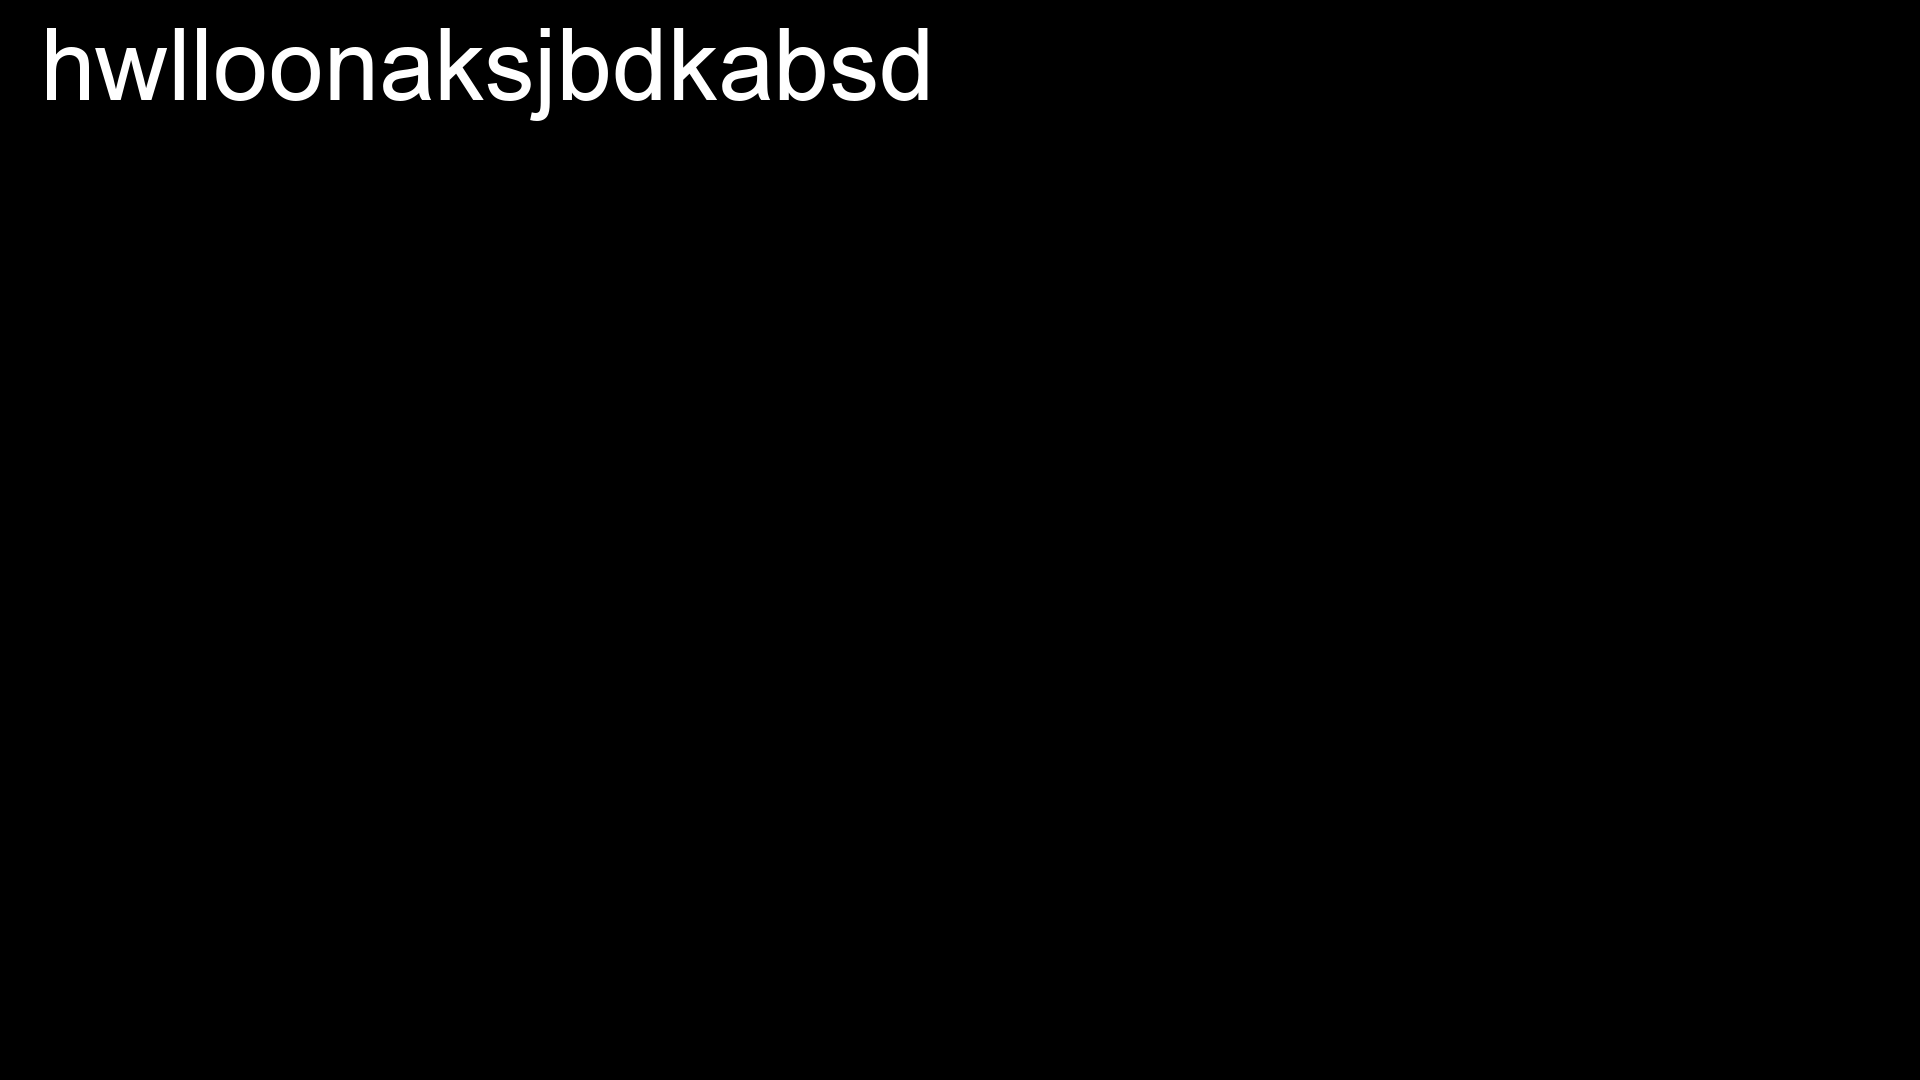
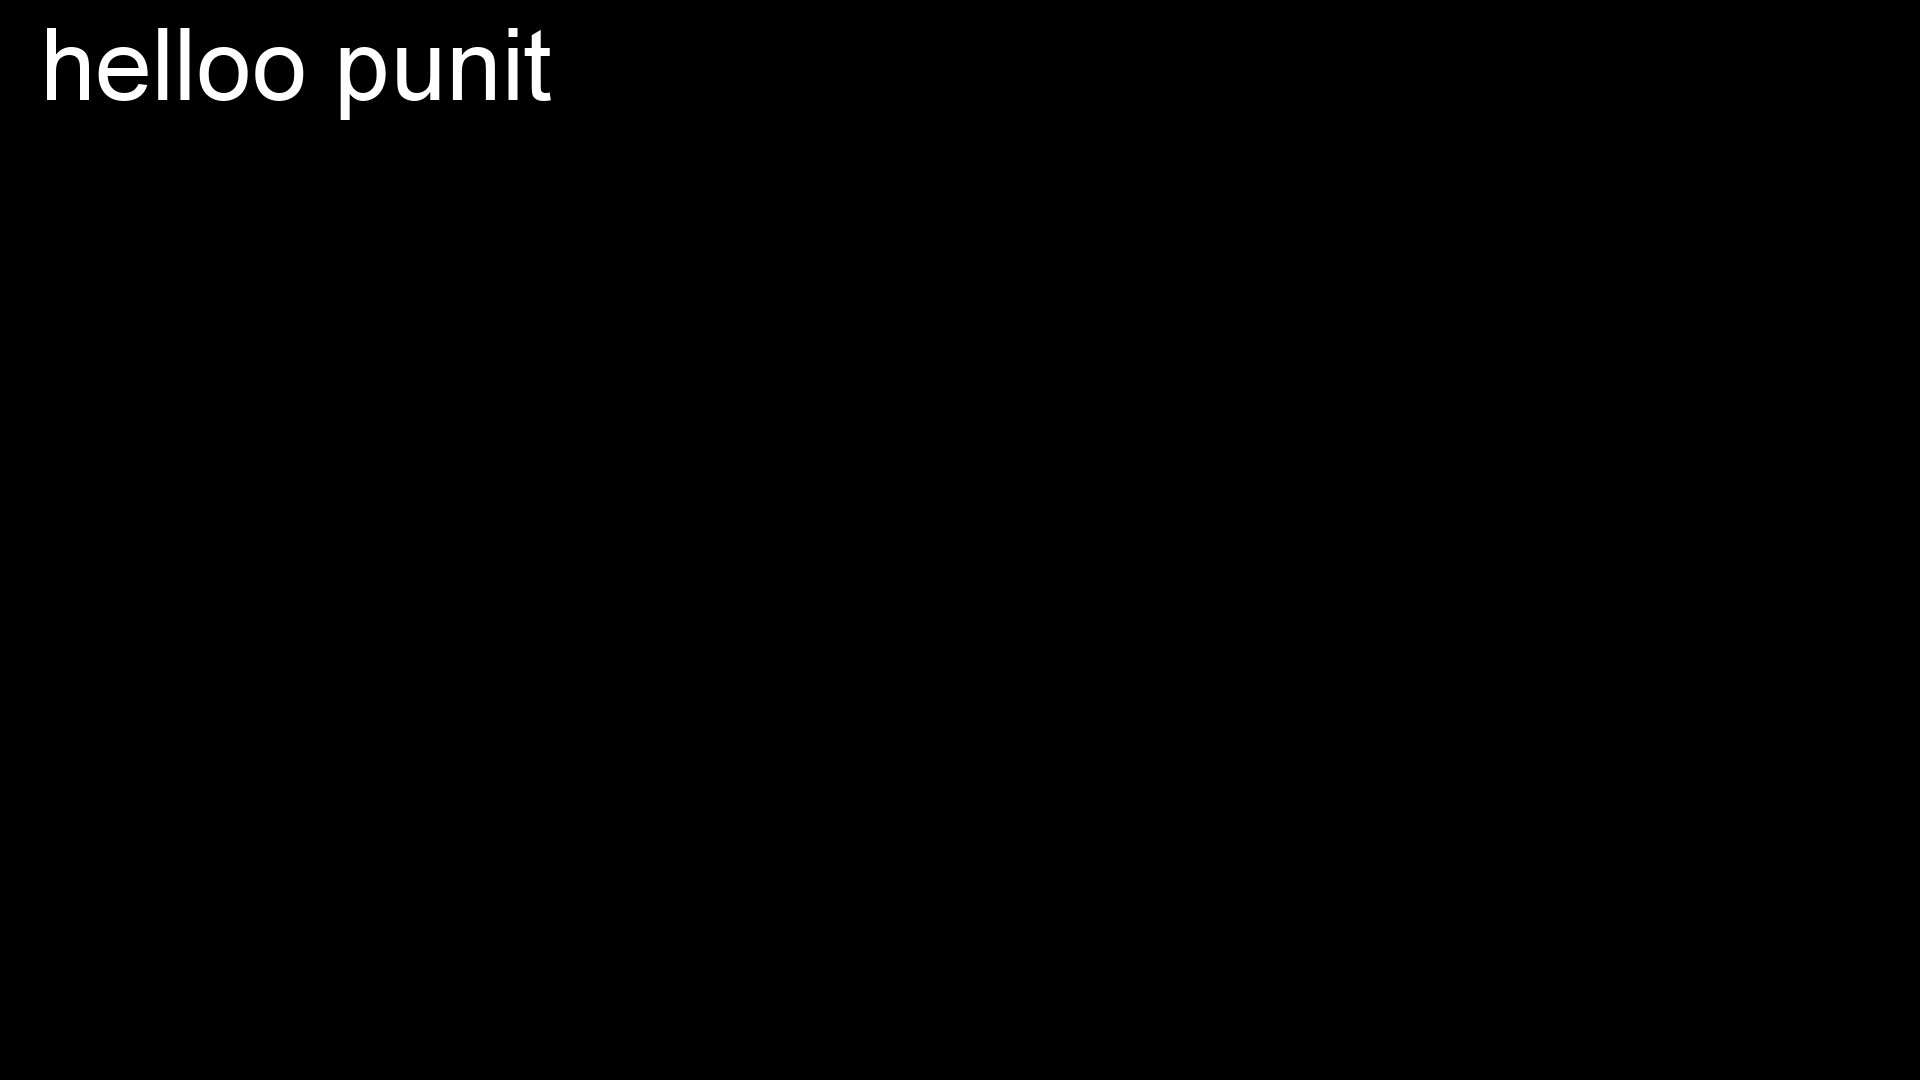
update the api

Changed region(s): [[0.0312, 0.0306, 0.5, 0.1222]]

diff --git a/src/App.vue b/src/App.vue
@@ -1,8 +1,8 @@
 <template>
 <div class="flex justify-center items-center h-screen">
-  <div class="border-4 w-[80vw] h-[60vh] md:h-[70vh] md:w-[40vw] flex justify-between flex-col items-center p-5 shadow-2xl">
+  <div class="border-4 w-[80vw] h-[60vh] md:h-[70vh] md:w-[42vw] flex justify-between flex-col items-center p-5 shadow-2xl">
       <div>
-        <input type="text" class="border-4 text-center border-black w-[68vw] md:w-[38vw] md:text-5xl h-[30vh] bg-black text-white text-3xl" v-model="Text">
+        <input type="text" class="border-4 text-center border-black w-[68vw] md:w-[38vw] md:text-5xl h-[30vh] bg-black text-white text-3xl" v-model="Text" disabled>
       </div>
       <div class="flex flex-col gap-10">
         <input type="text" class="border rounded-lg border-black md:w-[38vw] w-[58vw] h-10 p-2" placeholder="Change the wallpaper" v-model="NewText"/>
@@ -20,10 +20,35 @@ import axios from 'axios'
 const Text = ref('')
 const NewText = ref('')
 
-const GetText = async()=>{
-  const Response = await axios.get('http://localhost:8000/getimage')
-   Text.value= Response.data.text
-}
+const GetText = async () => {
+  try {
+    let config = {
+  method: 'post',
+  maxBodyLength: Infinity,
+  url: 'https://1978-203-122-54-18.ngrok-free.app/getImage',
+  headers: { 
+    'Accept': 'application/json'
+  }
+};
+
+axios.request(config)
+.then((response) => {
+  Text.value = response.data.text;
+})
+.catch((error) => {
+  console.log(error);
+});
+
+
+
+   
+   
+  } catch (error) {
+    console.error('Error fetching data:', error);
+    // You can handle the error in a way that makes sense for your application
+  }
+};
+
 
 const SendText =()=>{
   let data = JSON.stringify({
@@ -33,7 +58,7 @@ const SendText =()=>{
 let config = {
   method: 'post',
   maxBodyLength: Infinity,
-  url: 'http://localhost:8000/',
+  url: 'https://1978-203-122-54-18.ngrok-free.app/',
   headers: { 
     'Content-Type': 'application/json'
   },
